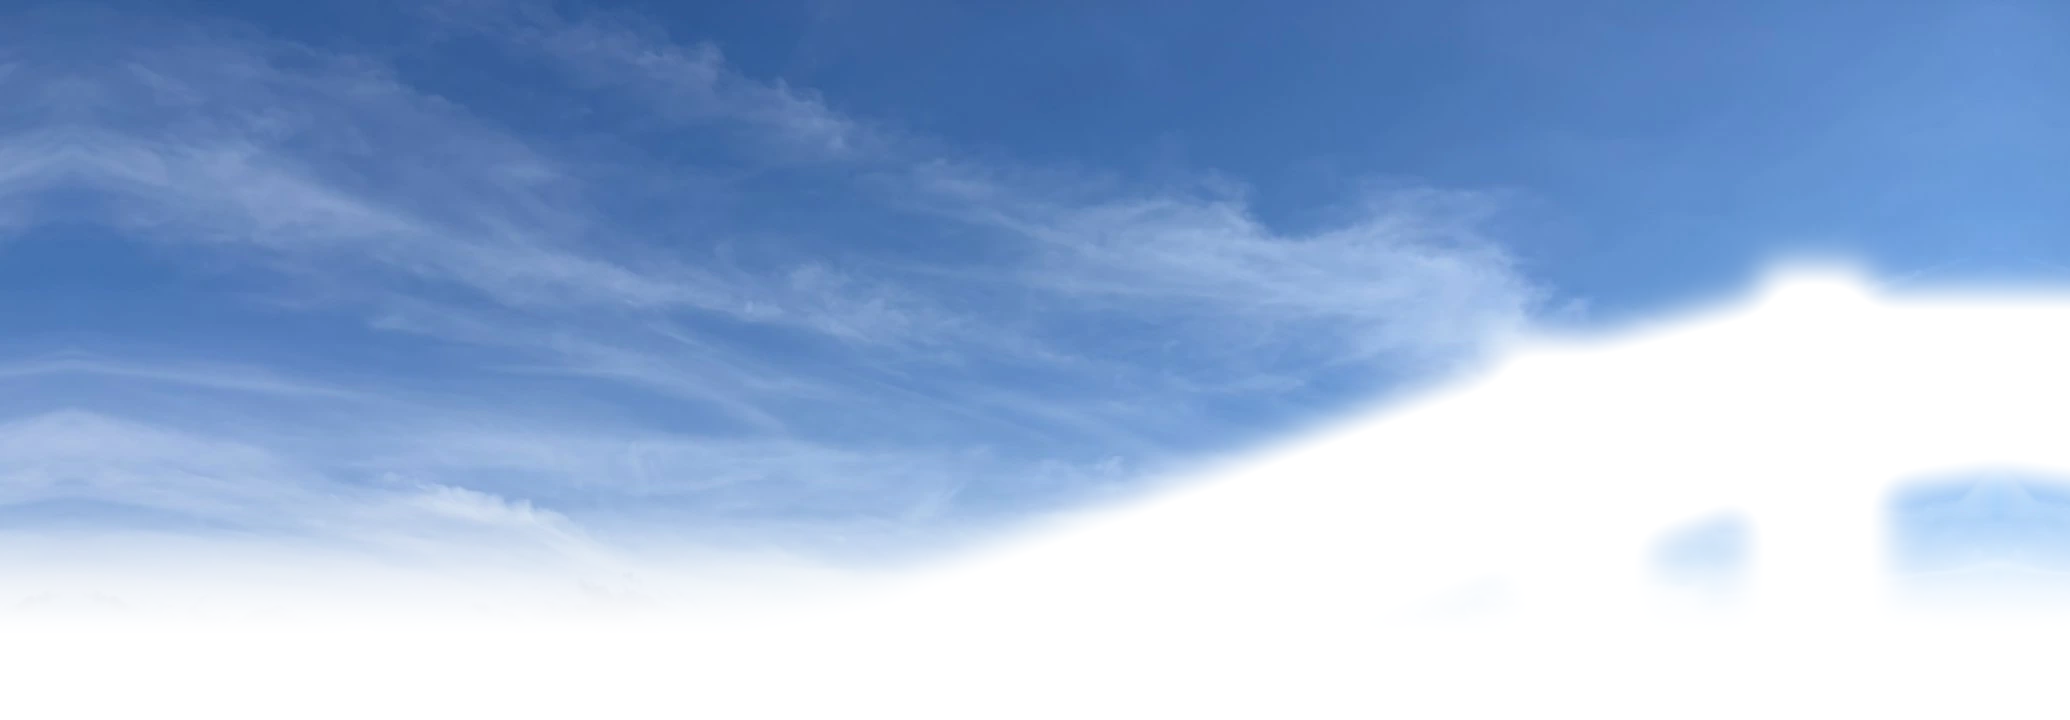
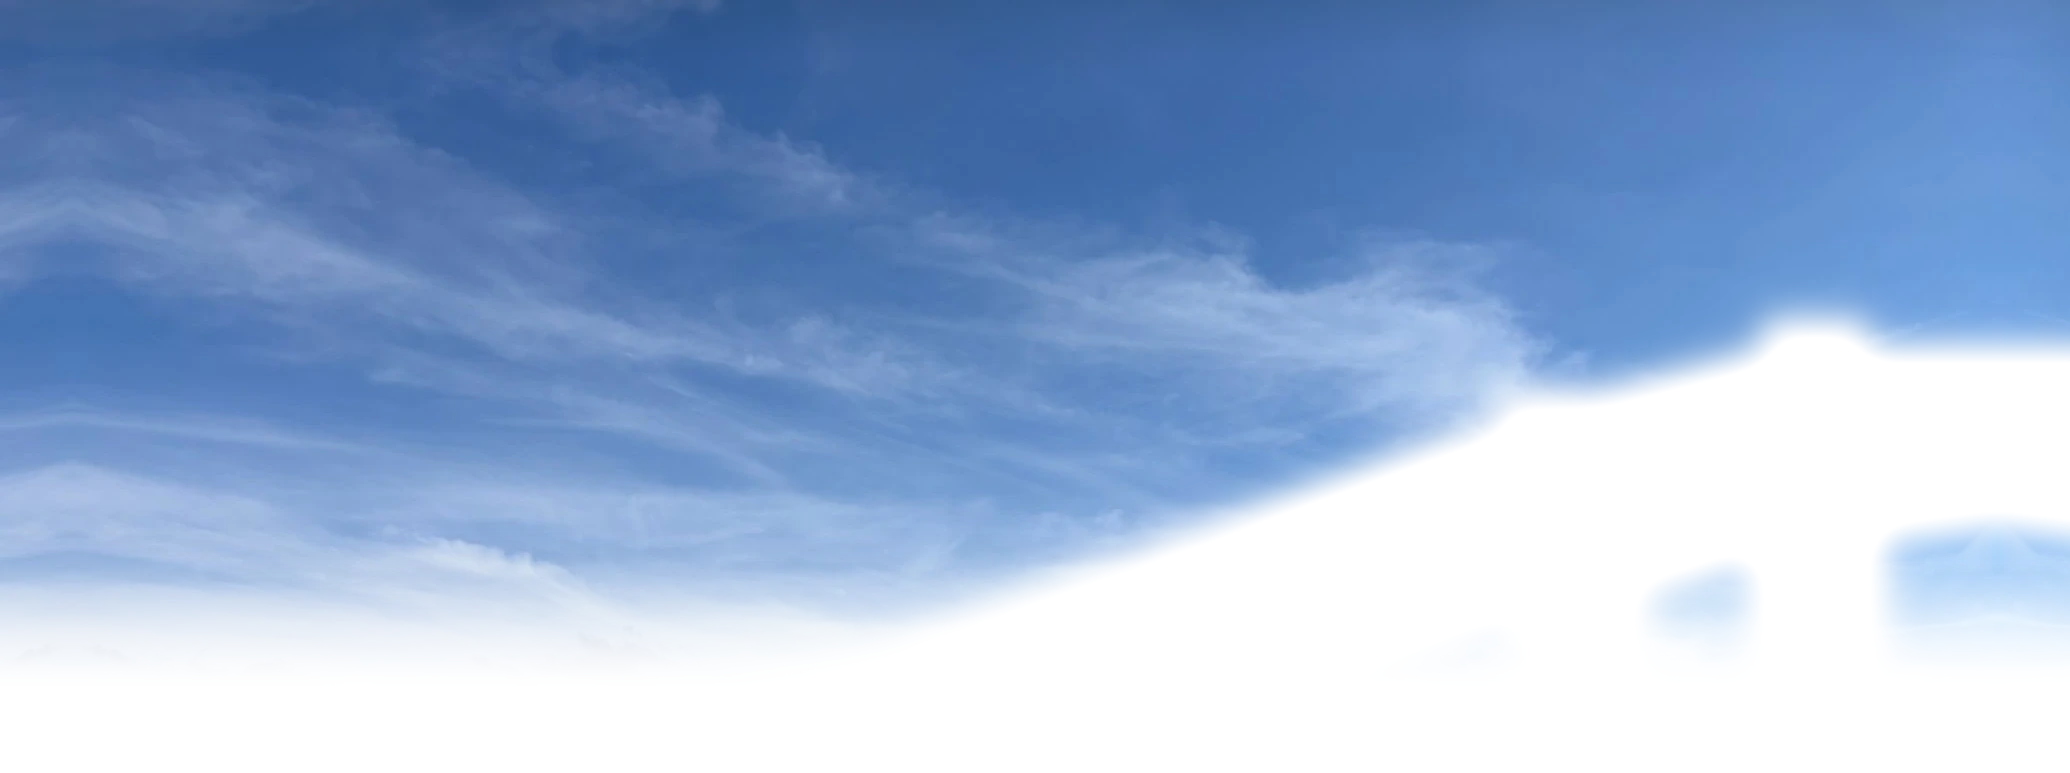
Cover: show more of the photo on phones and tall screens

diff --git a/assets/cover-anim/cover-anim.js b/assets/cover-anim/cover-anim.js
@@ -15,7 +15,7 @@
   function dpoly(c, x) { return (3 * c[0] * x + 2 * c[1]) * x + c[2]; }
 
   function loadScene() {
-    if (!scenePromise) scenePromise = fetch(BASE + 'scene.json').then(function (r) { if (!r.ok) throw 0; return r.json(); })
+    if (!scenePromise) scenePromise = fetch(BASE + 'scene.json?v=2').then(function (r) { if (!r.ok) throw 0; return r.json(); })
       .then(function (S) { SCENE = buildLines(S); return SCENE; });
     return scenePromise;
   }
@@ -64,16 +64,20 @@
 
   function build(host) {
     var S = SCENE.S, SP = S.sprite;
-    var stage = el('div', 'position:absolute;left:0;top:0;transform-origin:0 0;will-change:transform;width:' + S.W + 'px;height:' + S.H + 'px;');
+    var TOPX = S.TOPX || 0, HE = S.HE || S.H;
+    var stage = el('div', 'position:absolute;left:0;top:0;transform-origin:0 0;will-change:transform;width:' + S.W + 'px;height:' + HE + 'px;');
     var imgs = [];
-    function img(src, css, w, h) { var i = el('img', ABS + (css || ''), { alt: '', src: BASE + src, decoding: 'async' }); if (w) { i.width = w; i.height = h; } imgs.push(i); return i; }
-    stage.appendChild(img('cover-alps-plate.jpg', '', S.W, S.H));
+    function img(src, css, w, h) { var i = el('img', ABS + (css || ''), { alt: '', src: BASE + src + '?v=2', decoding: 'async' }); if (w) { i.width = w; i.height = h; } imgs.push(i); return i; }
+    // plate + drifting sky are in extended-canvas coords (photo starts at y=TOPX)
+    stage.appendChild(img('cover-alps-plate.jpg', '', S.W, HE));
     var sky = img('sky-drift.webp', 'left:' + (-S.PAD) + 'px;will-change:transform;');
     stage.appendChild(sky);
-    stage.appendChild(img('sky-static.webp'));
+    var inner = el('div', 'position:absolute;left:0;top:' + TOPX + 'px;width:' + S.W + 'px;height:' + S.H + 'px;');
+    stage.appendChild(inner);
+    inner.appendChild(img('sky-static.webp'));
     var chairsEl = el('div', 'position:absolute;left:0;top:0;');
-    stage.appendChild(chairsEl);
-    stage.appendChild(img('tower-occluder.png', 'left:' + S.occ[0] + 'px;top:' + S.occ[1] + 'px;'));
+    inner.appendChild(chairsEl);
+    inner.appendChild(img('tower-occluder.png', 'left:' + S.occ[0] + 'px;top:' + S.occ[1] + 'px;'));
     var chairs = [];
     Object.keys(SCENE.lines).forEach(function (name) {
       var L = SCENE.lines[name];
@@ -90,8 +94,8 @@
     var m = { host: host, wrap: wrap, stage: stage, sky: sky, chairs: chairs, ready: false };
     m.layout = function () {
       var W = host.clientWidth, H = host.clientHeight; if (!W || !H) return;
-      var s = Math.max(W / S.W, H / S.H);
-      stage.style.transform = 'translate(' + ((W - S.W * s) * 0.5) + 'px,' + ((H - S.H * s) * 0.12) + 'px) scale(' + s + ')';
+      var s = Math.max(W / S.W, H / HE);   // same as object-fit:cover; object-position:center 12% on cover-alps-ext.jpg
+      stage.style.transform = 'translate(' + ((W - S.W * s) * 0.5) + 'px,' + ((H - HE * s) * 0.12) + 'px) scale(' + s + ')';
     };
     m.ro = window.ResizeObserver ? new ResizeObserver(m.layout) : null;
     if (m.ro) m.ro.observe(host); else window.addEventListener('resize', m.layout);

diff --git a/about.html b/about.html
@@ -4,7 +4,7 @@
 <meta charset="utf-8">
 <meta name="viewport" content="width=device-width, initial-scale=1">
 <script src="./support.js"></script>
-<script src="./assets/cover-anim/cover-anim.js" defer></script>
+<script src="./assets/cover-anim/cover-anim.js?v=2" defer></script>
 </head>
 <body>
 <x-dc>
@@ -23,7 +23,7 @@
 
 <sc-if value="{{ isCover }}" hint-placeholder-val="{{ true }}">
   <div data-screen-label="Cover" style="position:relative; height:100vh; min-height:560px; overflow:hidden; background:#1a1a1a; color:#FFFFFF; display:flex; flex-direction:column;">
-    <img src="./assets/cover-alps.jpg" alt="" style="position:absolute; inset:0; width:100%; height:100%; object-fit:cover; object-position:center 12%;">
+    <img src="./assets/cover-alps-ext.jpg" alt="" style="position:absolute; inset:0; width:100%; height:100%; object-fit:cover; object-position:center 12%;">
     <div data-cover-anim="1" style="position:absolute; inset:0; overflow:hidden; pointer-events:none;"></div>
     <div style="position:absolute; inset:0; background:linear-gradient(180deg, rgba(0,0,0,0.4) 0%, rgba(0,0,0,0.05) 30%, rgba(0,0,0,0.1) 65%, rgba(0,0,0,0.5) 100%); pointer-events:none;"></div>
     <header style="position:relative; display:flex; justify-content:center; padding:32px 40px;">

diff --git a/index.html b/index.html
@@ -4,7 +4,7 @@
 <meta charset="utf-8">
 <meta name="viewport" content="width=device-width, initial-scale=1">
 <script src="./support.js"></script>
-<script src="./assets/cover-anim/cover-anim.js" defer></script>
+<script src="./assets/cover-anim/cover-anim.js?v=2" defer></script>
 </head>
 <body>
 <x-dc>
@@ -23,7 +23,7 @@
 
 <sc-if value="{{ isCover }}" hint-placeholder-val="{{ true }}">
   <div data-screen-label="Cover" style="position:relative; height:100vh; min-height:560px; overflow:hidden; background:#1a1a1a; color:#FFFFFF; display:flex; flex-direction:column;">
-    <img src="./assets/cover-alps.jpg" alt="" style="position:absolute; inset:0; width:100%; height:100%; object-fit:cover; object-position:center 12%;">
+    <img src="./assets/cover-alps-ext.jpg" alt="" style="position:absolute; inset:0; width:100%; height:100%; object-fit:cover; object-position:center 12%;">
     <div data-cover-anim="1" style="position:absolute; inset:0; overflow:hidden; pointer-events:none;"></div>
     <div style="position:absolute; inset:0; background:linear-gradient(180deg, rgba(0,0,0,0.4) 0%, rgba(0,0,0,0.05) 30%, rgba(0,0,0,0.1) 65%, rgba(0,0,0,0.5) 100%); pointer-events:none;"></div>
     <header style="position:relative; display:flex; justify-content:center; padding:32px 40px;">

diff --git a/lineage.html b/lineage.html
@@ -4,7 +4,7 @@
 <meta charset="utf-8">
 <meta name="viewport" content="width=device-width, initial-scale=1">
 <script src="./support.js"></script>
-<script src="./assets/cover-anim/cover-anim.js" defer></script>
+<script src="./assets/cover-anim/cover-anim.js?v=2" defer></script>
 </head>
 <body>
 <x-dc>
@@ -23,7 +23,7 @@
 
 <sc-if value="{{ isCover }}" hint-placeholder-val="{{ true }}">
   <div data-screen-label="Cover" style="position:relative; height:100vh; min-height:560px; overflow:hidden; background:#1a1a1a; color:#FFFFFF; display:flex; flex-direction:column;">
-    <img src="./assets/cover-alps.jpg" alt="" style="position:absolute; inset:0; width:100%; height:100%; object-fit:cover; object-position:center 12%;">
+    <img src="./assets/cover-alps-ext.jpg" alt="" style="position:absolute; inset:0; width:100%; height:100%; object-fit:cover; object-position:center 12%;">
     <div data-cover-anim="1" style="position:absolute; inset:0; overflow:hidden; pointer-events:none;"></div>
     <div style="position:absolute; inset:0; background:linear-gradient(180deg, rgba(0,0,0,0.4) 0%, rgba(0,0,0,0.05) 30%, rgba(0,0,0,0.1) 65%, rgba(0,0,0,0.5) 100%); pointer-events:none;"></div>
     <header style="position:relative; display:flex; justify-content:center; padding:32px 40px;">

diff --git a/portfolio.html b/portfolio.html
@@ -4,7 +4,7 @@
 <meta charset="utf-8">
 <meta name="viewport" content="width=device-width, initial-scale=1">
 <script src="./support.js"></script>
-<script src="./assets/cover-anim/cover-anim.js" defer></script>
+<script src="./assets/cover-anim/cover-anim.js?v=2" defer></script>
 </head>
 <body>
 <x-dc>
@@ -23,7 +23,7 @@
 
 <sc-if value="{{ isCover }}" hint-placeholder-val="{{ true }}">
   <div data-screen-label="Cover" style="position:relative; height:100vh; min-height:560px; overflow:hidden; background:#1a1a1a; color:#FFFFFF; display:flex; flex-direction:column;">
-    <img src="./assets/cover-alps.jpg" alt="" style="position:absolute; inset:0; width:100%; height:100%; object-fit:cover; object-position:center 12%;">
+    <img src="./assets/cover-alps-ext.jpg" alt="" style="position:absolute; inset:0; width:100%; height:100%; object-fit:cover; object-position:center 12%;">
     <div data-cover-anim="1" style="position:absolute; inset:0; overflow:hidden; pointer-events:none;"></div>
     <div style="position:absolute; inset:0; background:linear-gradient(180deg, rgba(0,0,0,0.4) 0%, rgba(0,0,0,0.05) 30%, rgba(0,0,0,0.1) 65%, rgba(0,0,0,0.5) 100%); pointer-events:none;"></div>
     <header style="position:relative; display:flex; justify-content:center; padding:32px 40px;">
